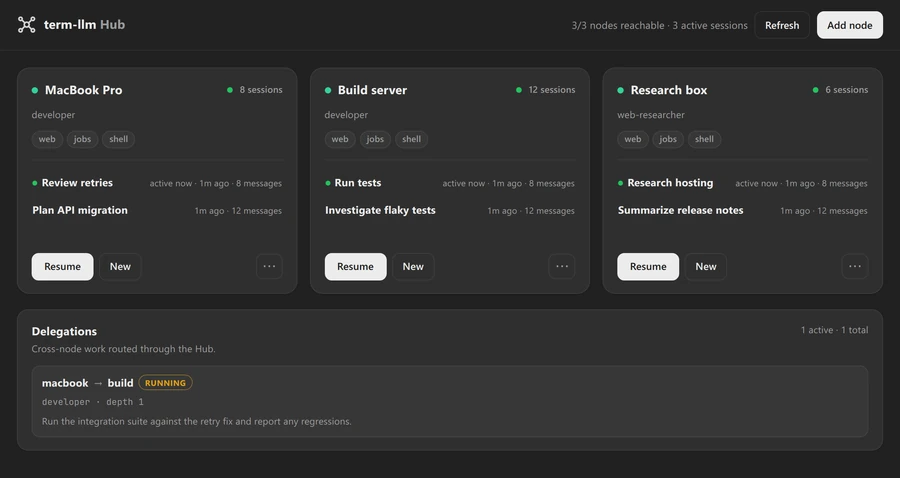
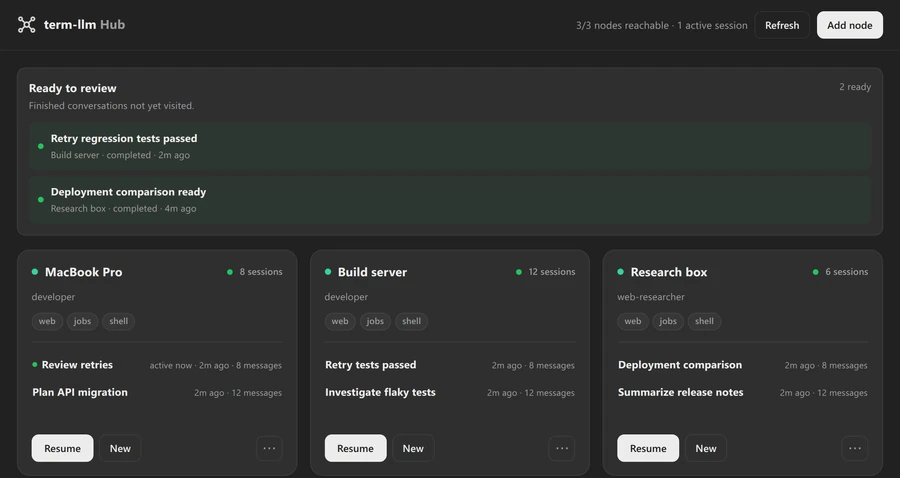
Show completed agent work in the Hub tour
Update Hub tour fixtures, screenshots, and homepage copy to highlight
completed sessions ready for review across machines. Require two review
items before capturing the Hub preview.

diff --git a/docs-site/content/_index.md b/docs-site/content/_index.md
@@ -20,8 +20,8 @@ web:
       link: "Explore the workspace"
     - id: hub
       label: Hub
-      caption: "One place for your machines, conversations, and cross-node agent work."
-      alt: "Hub dashboard with MacBook Pro, Build server and Research box nodes, plus delegated work."
+      caption: "Pick up finished agent work across your machines, all in one place."
+      alt: "Hub dashboard with two completed sessions ready for review above MacBook Pro, Build server and Research box nodes."
       url: "/guides/hub/"
       link: "Explore Hub"
     - id: worktrees
